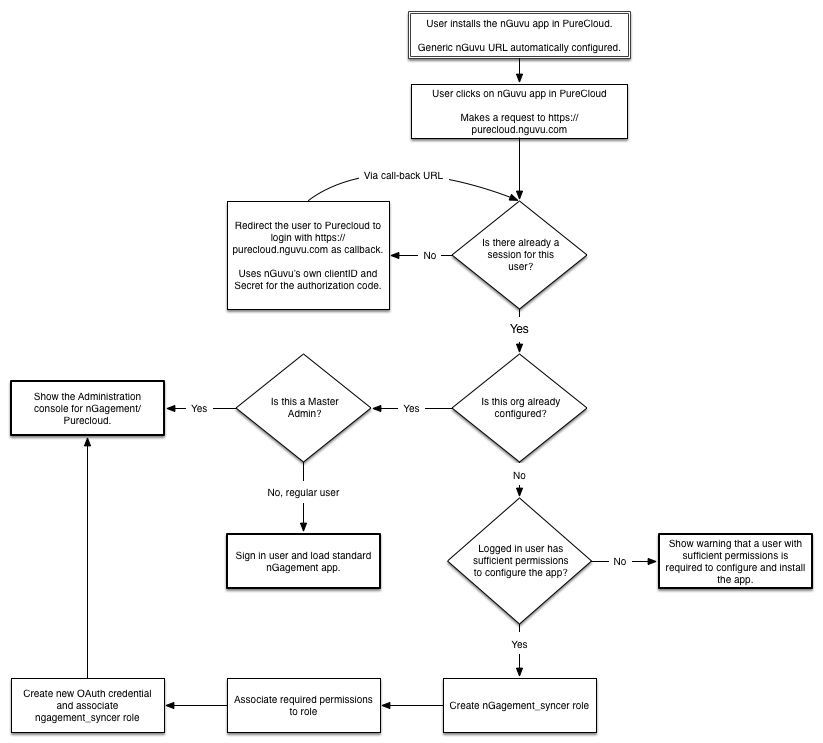
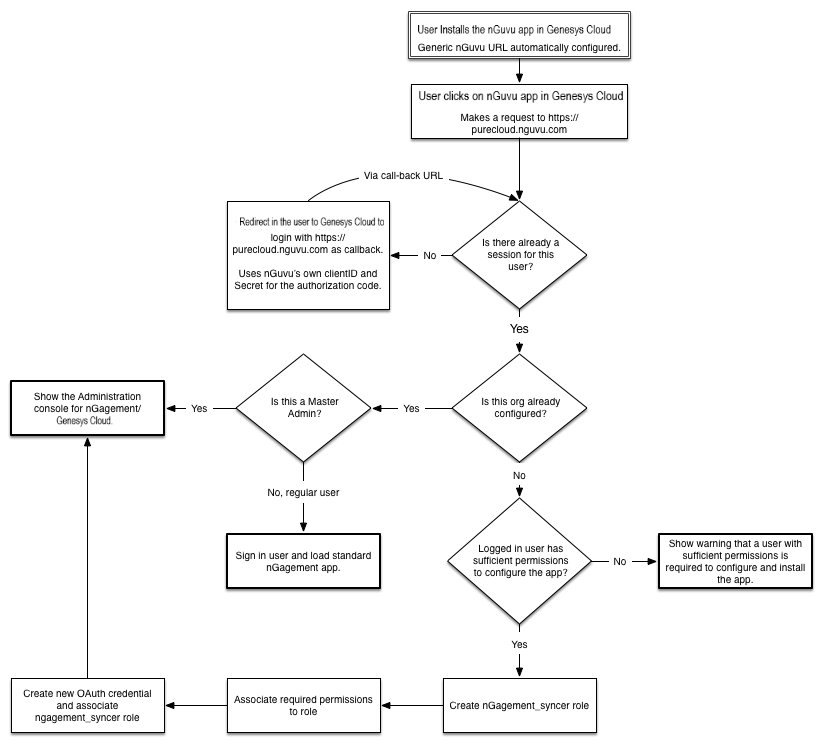
Rebrand automate-1st-time-configuation-wizard

diff --git a/source/2017-08-15-automate-1st-time-configuration-wizard/index.html.md b/source/2017-08-15-automate-1st-time-configuration-wizard/index.html.md
@@ -57,7 +57,7 @@ def login_purecloud_required(f):
 				session['status'] = "Valid"
 				return f(*args, **kwargs)
 			else:
-				return redirect("https://login.mypurecloud.com/oauth/authorize?client_id=" + PURECLOUD_MASTER_CLIENT_ID + "&response_type=code&redirect_uri=" + SERVER_URL + "/purecloud/oauth/callback", code=302)
+				return redirect("https://login.mypurecloud.com/oauth/authorize?client_id=" + GENESYS_CLOUD_MASTER_CLIENT_ID + "&response_type=code&redirect_uri=" + SERVER_URL + "/purecloud/oauth/callback", code=302)
 		else:
 			return f(*args, **kwargs)
 
@@ -74,7 +74,7 @@ def login_purecloud_required(f):
 def get_token_from_code(code):
 	# Prepare for POST /oauth/token request
 	requestHeaders = {
-		'Authorization': 'Basic ' + base64.b64encode(PURECLOUD_MASTER_CLIENT_ID + ':' + PURECLOUD_MASTER_CLIENT_SECRET),
+		'Authorization': 'Basic ' + base64.b64encode(GENESYS_CLOUD_MASTER_CLIENT_ID + ':' + GENESYS_CLOUD_MASTER_CLIENT_SECRET),
 		'Content-Type': 'application/x-www-form-urlencoded'
 	}
 	requestBody = {
